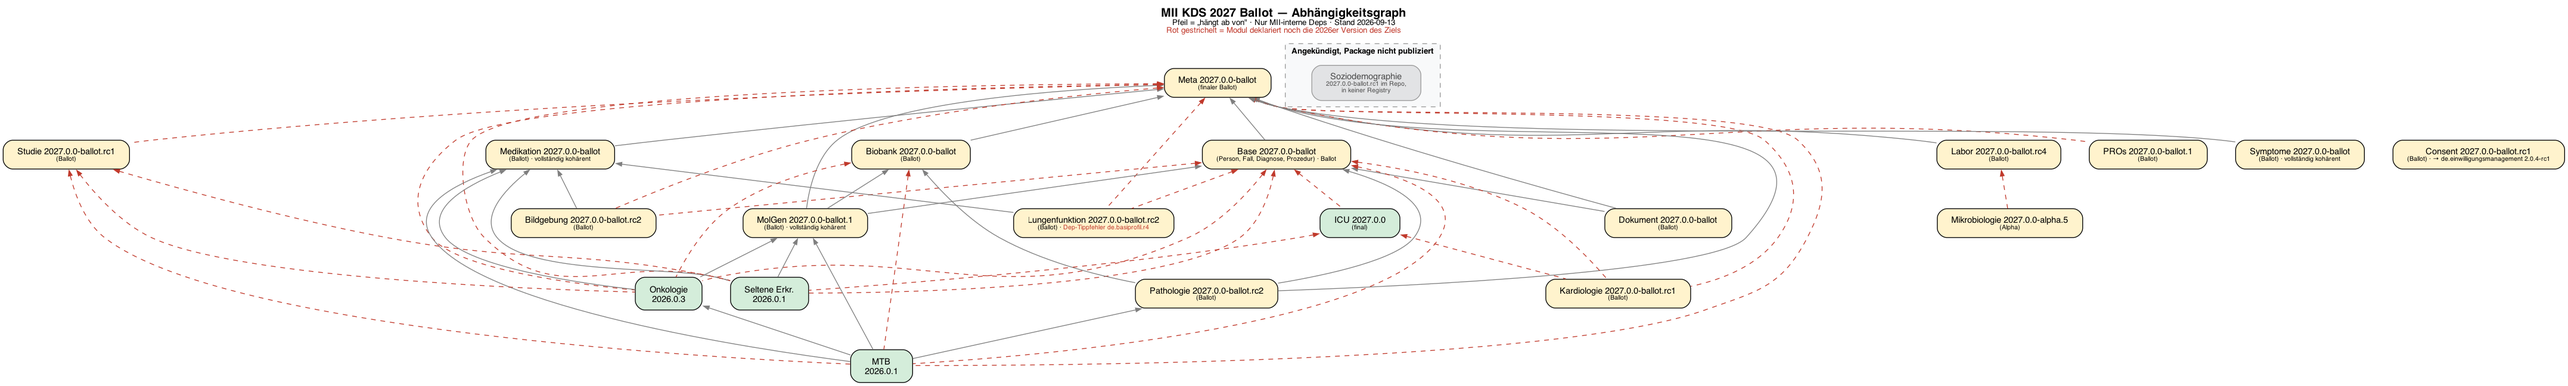
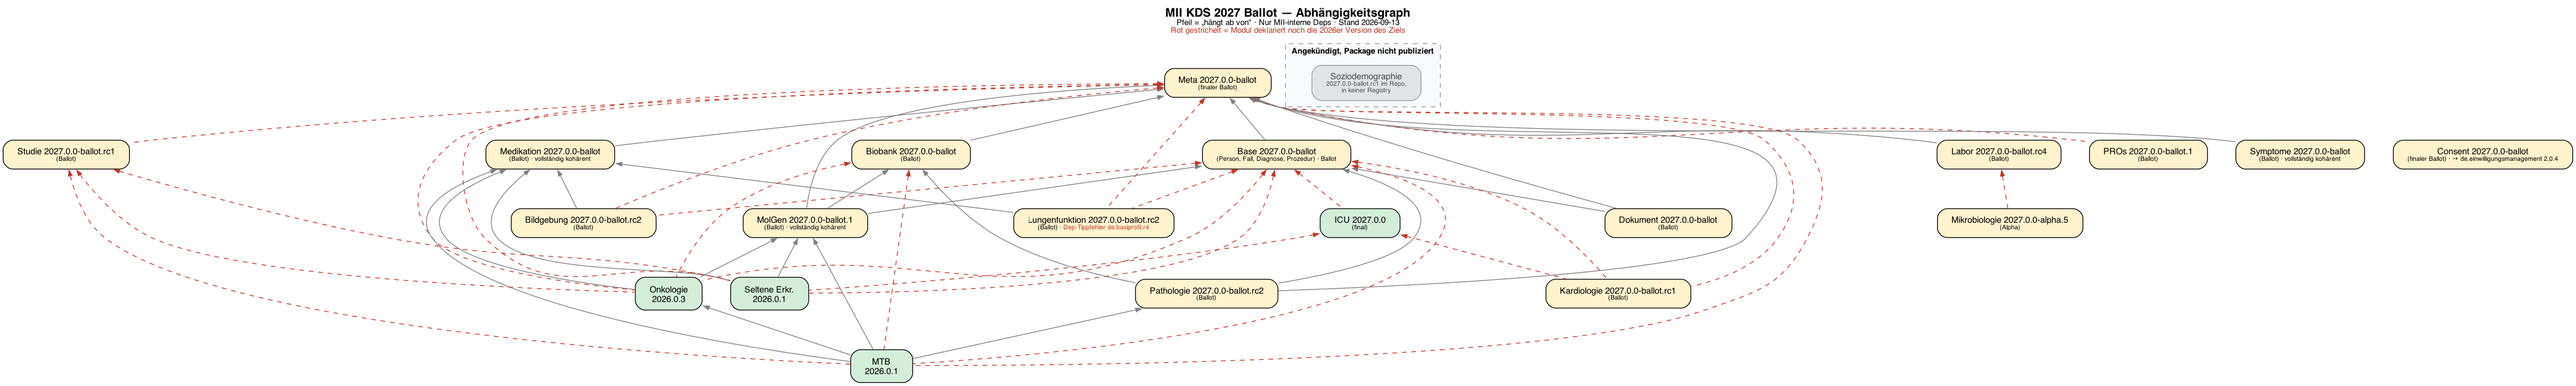
BOM 2027.0.0-ballot.13: Consent final, Einwilligungsmanagement 2.0.4
Consent zieht von 2027.0.0-ballot.rc1 auf 2027.0.0-ballot und bringt
de.einwilligungsmanagement von 2.0.4-rc1 auf 2.0.4 mit.

Damit 16 der 20 Module auf der finalen Ballot-Linie.

Claude-Session: https://claude.ai/code/session_01MJTiFA65uRigwFL6K5K7D4

diff --git a/input/pagecontent/index.md b/input/pagecontent/index.md
@@ -72,7 +72,7 @@ Während das [Meta-Modul](https://github.com/medizininformatik-initiative/kernda
 | Seltene Erkrankungen | `de.medizininformatikinitiative.kerndatensatz.seltene` | 2026.0.1 | [kerndatensatzmodul-seltene-erkrankungen](https://github.com/medizininformatik-initiative/kerndatensatzmodul-seltene-erkrankungen) | [v2026.0.1](https://github.com/medizininformatik-initiative/kerndatensatzmodul-seltene-erkrankungen/releases/tag/v2026.0.1) |
 | Molekulares Tumorboard | `de.medizininformatikinitiative.kerndatensatz.mtb` | 2026.0.1 | [kerndatensatzmodul-molekulares-tumorboard](https://github.com/medizininformatik-initiative/kerndatensatzmodul-molekulares-tumorboard) | [v2026.0.1](https://github.com/medizininformatik-initiative/kerndatensatzmodul-molekulares-tumorboard/releases/tag/v2026.0.1) (2026-03-30) |
 | PROs | `de.medizininformatikinitiative.kerndatensatz.pros` | 2027.0.0-ballot.1 | [kerndatensatzmodul-proms](https://github.com/medizininformatik-initiative/kerndatensatzmodul-proms) | nur als Package publiziert |
-| Consent | `de.medizininformatikinitiative.kerndatensatz.consent` | 2027.0.0-ballot.rc1 | [kerndatensatzmodul-consent](https://github.com/medizininformatik-initiative/kerndatensatzmodul-consent) | nur als Package publiziert, kein GitHub-Release |
+| Consent | `de.medizininformatikinitiative.kerndatensatz.consent` | 2027.0.0-ballot | [kerndatensatzmodul-consent](https://github.com/medizininformatik-initiative/kerndatensatzmodul-consent) | nur als Package publiziert, kein GitHub-Release |
 | Kardiologie | `de.medizininformatikinitiative.kerndatensatz.kardiologie` | 2027.0.0-ballot | [kerndatensatz-kardiologie](https://github.com/medizininformatik-initiative/kerndatensatz-kardiologie) | [v2027.0.0-ballot.rc1](https://github.com/medizininformatik-initiative/kerndatensatz-kardiologie/releases/tag/v2027.0.0-ballot.rc1) (2026-08-31) |
 | Lungenfunktion | `de.medizininformatikinitiative.kerndatensatz.lungenfunktion` | 2027.0.0-ballot.rc2 | [kerndatensatz-lungenfunktion](https://github.com/medizininformatik-initiative/kerndatensatz-lungenfunktion) | nur als Package publiziert, kein GitHub-Release |
 | Symptome | `de.medizininformatikinitiative.kerndatensatz.symptom` | 2027.0.0-ballot | [kerndatensatzmodul-symptome](https://github.com/medizininformatik-initiative/kerndatensatzmodul-symptome) | [v2027.0.0-ballot](https://github.com/medizininformatik-initiative/kerndatensatzmodul-symptome/releases/tag/v2027.0.0-ballot) (2026-09-11) |
@@ -111,7 +111,7 @@ Pakete ohne Pin werden weiterhin transitiv aufgelöst; ihre Version ergibt sich 
 
 | Paket | Version | Angefordert von |
 |-------|---------|-----------------|
-| Einwilligungsmanagement (`de.einwilligungsmanagement`) | 2.0.4-rc1 | Consent |
+| Einwilligungsmanagement (`de.einwilligungsmanagement`) | 2.0.4 | Consent |
 | Deutsche Medikation (`de.fhir.medication`) | 1.0.x | Medikation |
 | IHE-D Terminologie (`de.ihe-d.terminology`) | 3.0.1 | Medikation, Dokument |
 | gematik Terminologie (`de.gematik.terminology`) | 1.0.6 – 1.0.9 | ISiK (transitiv) |

diff --git a/status/readiness.md b/status/readiness.md
@@ -1,6 +1,6 @@
 # Reifegrad der KDS-Module
 
-BOM `2027.0.0-ballot.12` · 20 Module · automatisch erzeugt von `scripts/build-status.py`
+BOM `2027.0.0-ballot.13` · 20 Module · automatisch erzeugt von `scripts/build-status.py`
 
 Der Reifegrad misst **Version und Abhängigkeiten zusammen**. Eine 2027er Versionsnummer allein sagt wenig — entscheidend ist, worauf das Paket intern zeigt.
 
@@ -23,7 +23,7 @@ Der Reifegrad misst **Version und Abhängigkeiten zusammen**. Eine 2027er Versio
 | icu | `2027.0.0-ballot.rc2` | 1 | base | — |
 | base | `2027.0.0-ballot` | 1 | — | — |
 | biobank | `2027.0.0-ballot` | 1 | — | — |
-| consent | `2027.0.0-ballot.rc1` | 0 | — | — |
+| consent | `2027.0.0-ballot` | 0 | — | — |
 | dokument | `2027.0.0-ballot.2` | 2 | — | — |
 | kardiologie | `2027.0.0-ballot` | 2 | — | — |
 | laborbefund | `2027.0.0-ballot` | 1 | — | — |
